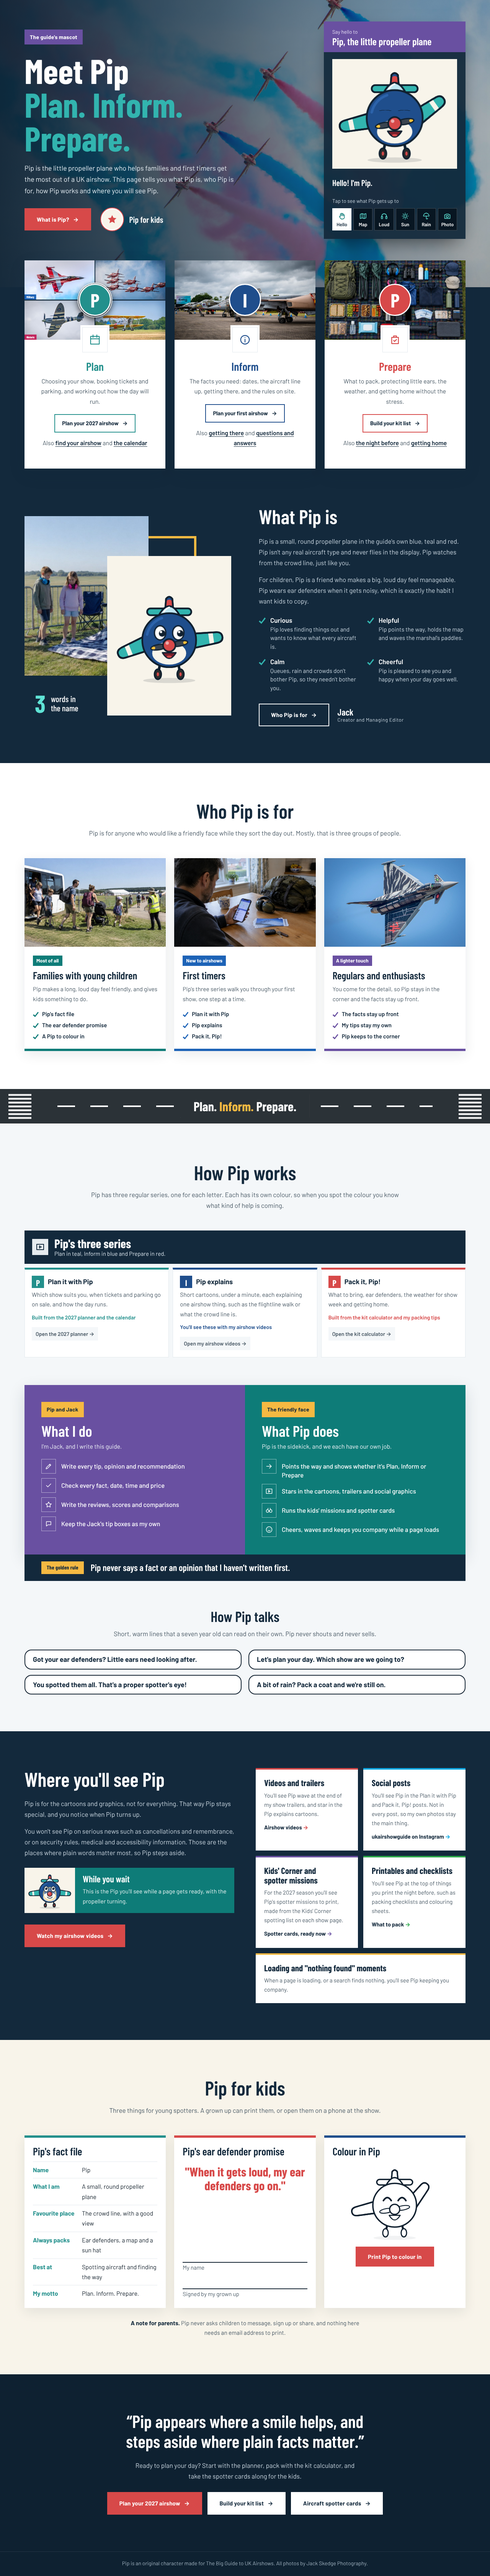
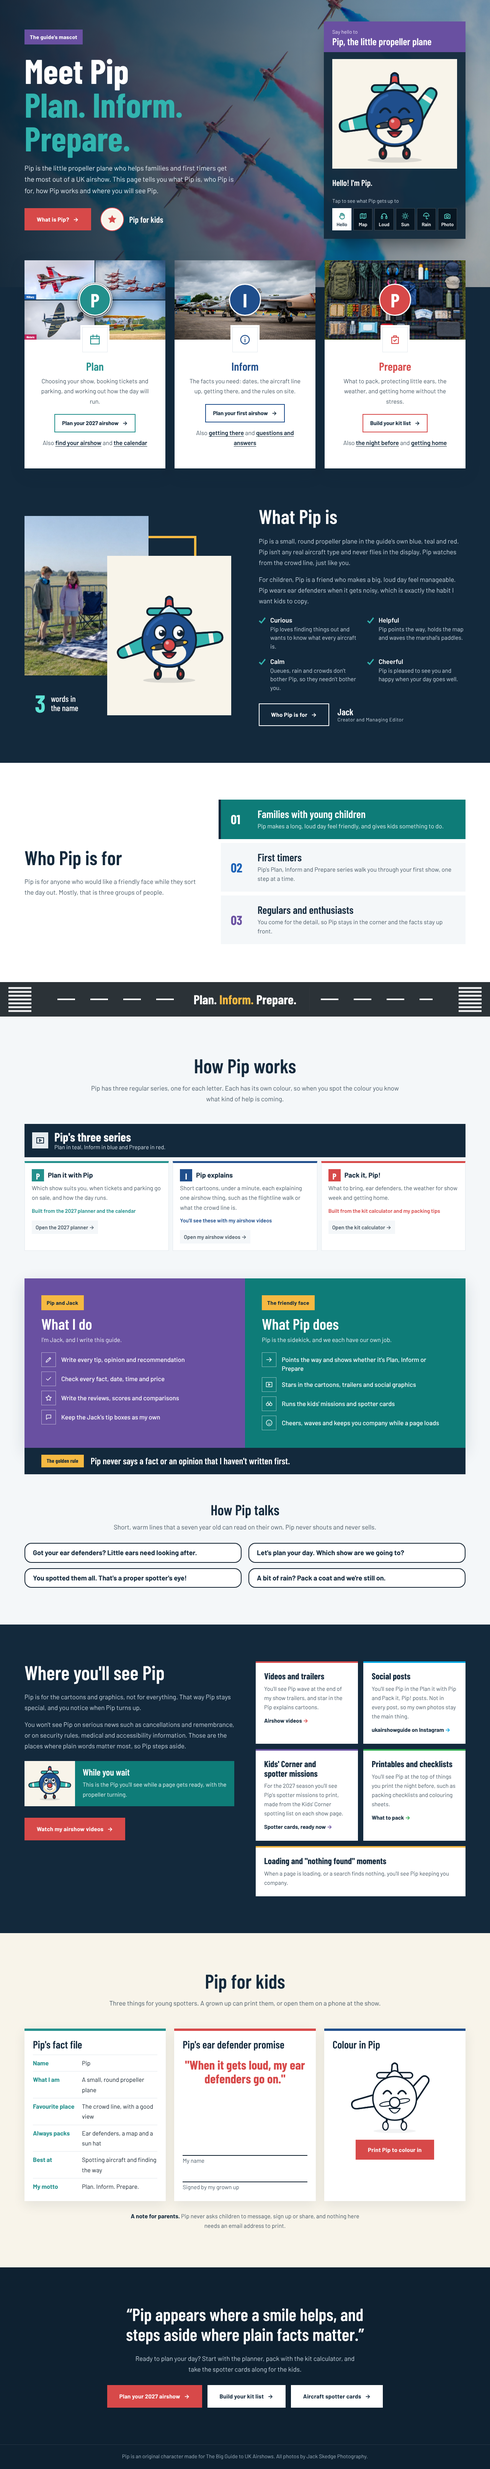
Meet Pip preview: 'Who Pip is for' as a plain numbered list (Jack: 'change the look of these, looks AI')
The three photo cards with labels and ticks are gone. The section now uses
the home page's numbered list style with Jack's wording only, and no photos.

Claude-Session: https://claude.ai/code/session_01CAsoXMXoxgYVqtuxCyBSD6

diff --git a/previews/meet-pip.html b/previews/meet-pip.html
@@ -133,20 +133,18 @@ button{font-family:var(--bf)}
 .sign em{font-style:normal;font-family:var(--hf);font-size:24px;font-weight:600;color:#fff;line-height:1.1}
 .sign em small{display:block;font-family:var(--bf);font-size:13px;font-weight:400;color:var(--soft);letter-spacing:.5px}
 
-/* ticket style cards */
-.tix{display:grid;grid-template-columns:repeat(3,minmax(0,1fr));gap:22px}
-.tk{background:#fff;display:flex;flex-direction:column;border-bottom:6px solid var(--c);box-shadow:0 10px 30px rgba(19,41,60,.09);transition:.35s;min-width:0}
-.tk:hover{transform:translateY(-6px);box-shadow:0 18px 40px rgba(19,41,60,.15)}
-.tk-p{aspect-ratio:16/10;overflow:hidden}
-.tk-p img{width:100%;height:100%;object-fit:cover;transition:transform .7s}
-.tk:hover .tk-p img{transform:scale(1.08)}
-.tk-h{padding:20px 22px 0}
-.tk-h em{display:inline-block;font-style:normal;font-size:13px;font-weight:700;color:#fff;background:var(--c);padding:3px 9px;margin-bottom:10px}
-.tk-h h3{font-size:27px}
-.tk-h p{font-size:15.5px;margin-top:8px}
-.tk ul{padding:16px 22px 22px;display:grid;gap:8px;margin-top:auto}
-.tk li{display:flex;gap:9px;font-size:15px;font-weight:600;color:var(--navy);line-height:1.4}
-.tk li:before{content:"";flex:none;width:15px;height:15px;margin-top:4px;background:var(--c);clip-path:polygon(14% 52%,0 66%,38% 100%,100% 22%,86% 8%,38% 72%)}
+/* who Pip is for: numbered rows, like the kinds of airshow list on the home page */
+.whogrid{display:grid;grid-template-columns:minmax(0,5fr) minmax(0,7fr);gap:56px;align-items:center}
+.whohead .title{margin-bottom:20px}
+.wholist{display:grid;gap:10px}
+.wholist li{display:grid;grid-template-columns:62px minmax(0,1fr);gap:8px;align-items:center;background:var(--light);padding:22px 26px;transition:transform .3s}
+.wholist li:hover{transform:translateX(6px)}
+.wholist i{font-style:normal;font-family:var(--hf);font-weight:700;font-size:34px;line-height:1;color:var(--c)}
+.wholist h3{font-size:28px}
+.wholist p{font-size:16px;line-height:1.5;margin-top:5px}
+.wholist li.main{background:var(--c);box-shadow:-6px 0 0 var(--navy)}
+.wholist li.main i,.wholist li.main h3{color:#fff}
+.wholist li.main p{color:#E6F2F1}
 
 /* runway strip */
 .runway{position:relative;height:96px;overflow:hidden;background:#2B3237;border-top:3px solid #fff;border-bottom:3px solid #fff}
@@ -263,17 +261,20 @@ button{font-family:var(--bf)}
   .hero .wrap{flex-direction:column;align-items:stretch;padding-top:36px;padding-bottom:96px;min-height:0}
   .panel{width:100%;max-width:440px;margin:0 auto}
   .facts{margin-top:-40px;background:linear-gradient(180deg,transparent 40px,var(--navy) 40px)}
-  .facts .wrap,.about,.tix,.kit,.split,.org,.kidgrid{grid-template-columns:1fr}
+  .facts .wrap,.about,.whogrid,.kit,.split,.org,.kidgrid{grid-template-columns:1fr}
+  .whogrid{gap:28px}
   .sec{padding:64px 0}
   .head{margin-bottom:36px}
   .pics{min-height:420px;max-width:520px;width:100%;margin:0 auto}
-  .tix,.kidgrid{max-width:520px;margin-left:auto;margin-right:auto}
+  .kidgrid{max-width:520px;margin-left:auto;margin-right:auto}
   .split,.subhead{margin-top:52px}
   .quote{padding:64px 0}
   .runway:before{left:96px;right:96px}
 }
 @media (max-width:600px){
   .ticks,.lines,.offer{grid-template-columns:1fr}
+  .wholist li{grid-template-columns:50px minmax(0,1fr);padding:18px 18px}
+  .wholist h3{font-size:25px}
   .hero-cta{gap:18px}
   .runway{height:84px}
   .runway:before{display:none}
@@ -388,25 +389,16 @@ button{font-family:var(--bf)}
 
 <!-- 2 who Pip is for -->
 <section class="sec" id="who" aria-labelledby="who-h">
-<div class="wrap">
-<div class="head"><h2 class="title" id="who-h">Who Pip is for</h2><p>Pip is for anyone who would like a friendly face while they sort the day out. Mostly, that is three groups of people.</p></div>
-<div class="tix">
-<article class="tk" style="--c:var(--teal-d)">
-<figure class="tk-p"><img src="../home-img/v2/promo-shuttle.jpg" alt="Families with rucksacks and a pushchair stepping off an airshow shuttle bus" loading="lazy"></figure>
-<div class="tk-h"><em>Most of all</em><h3>Families with young children</h3><p>Pip makes a long, loud day feel friendly, and gives kids something to do.</p></div>
-<ul><li>Pip's fact file</li><li>The ear defender promise</li><li>A Pip to colour in</li></ul>
-</article>
-<article class="tk" style="--c:var(--blue)">
-<figure class="tk-p"><img src="../home-img/v2/fact-plan.jpg" alt="Checking plans before travelling to an airshow" loading="lazy"></figure>
-<div class="tk-h"><em>New to airshows</em><h3>First timers</h3><p>Pip's three series walk you through your first show, one step at a time.</p></div>
-<ul><li>Plan it with Pip</li><li>Pip explains</li><li>Pack it, Pip!</li></ul>
-</article>
-<article class="tk" style="--c:var(--purple)">
-<figure class="tk-p"><img src="../home-img/v2/guide-photo-typhoon.jpg" alt="A Typhoon in flight, photographed at an airshow" loading="lazy"></figure>
-<div class="tk-h"><em>A lighter touch</em><h3>Regulars and enthusiasts</h3><p>You come for the detail, so Pip stays in the corner and the facts stay up front.</p></div>
-<ul><li>The facts stay up front</li><li>My tips stay my own</li><li>Pip keeps to the corner</li></ul>
-</article>
+<div class="wrap whogrid">
+<div class="whohead">
+<h2 class="title" id="who-h">Who Pip is for</h2>
+<p>Pip is for anyone who would like a friendly face while they sort the day out. Mostly, that is three groups of people.</p>
 </div>
+<ol class="wholist">
+<li class="main" style="--c:var(--teal-d)"><i aria-hidden="true">01</i><div><h3>Families with young children</h3><p>Pip makes a long, loud day feel friendly, and gives kids something to do.</p></div></li>
+<li style="--c:var(--blue)"><i aria-hidden="true">02</i><div><h3>First timers</h3><p>Pip's Plan, Inform and Prepare series walk you through your first show, one step at a time.</p></div></li>
+<li style="--c:var(--purple)"><i aria-hidden="true">03</i><div><h3>Regulars and enthusiasts</h3><p>You come for the detail, so Pip stays in the corner and the facts stay up front.</p></div></li>
+</ol>
 </div>
 </section>
 
